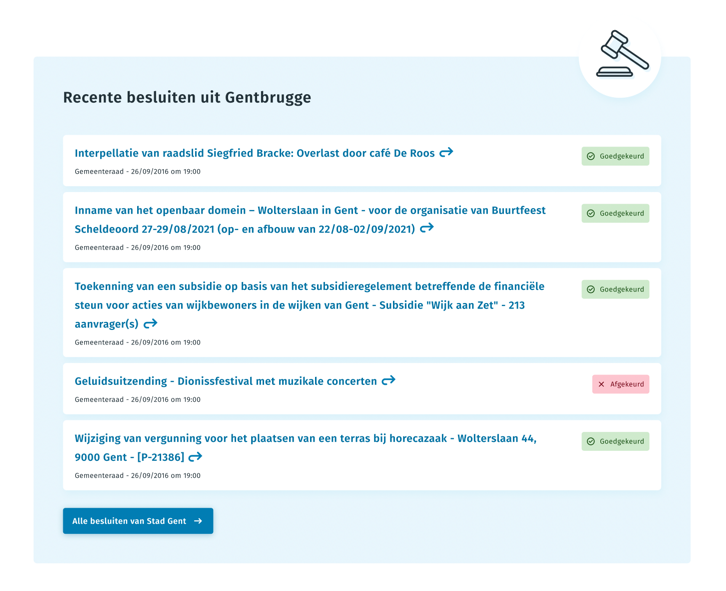
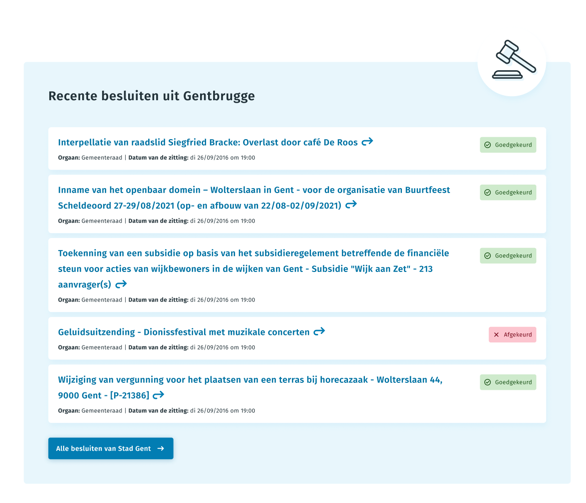
Use proper labels

diff --git a/webcomponents/reglementen-detail/main.js b/webcomponents/reglementen-detail/main.js
@@ -12,23 +12,23 @@ class ReglementenDetail extends HTMLElement {
       this.orgaan = this.getAttribute('orgaan');
       this.datum = this.formatDate(this.getAttribute('datum'));
       this.url = this.getAttribute('url');
-      this.status = this.getAttribute('status');
+      this.type = this.getAttribute('type');
       this.innerHTML += this.createDetail();
     }
   }
 
   createDetail() {
     return (`
-      <div class="besluiten-list__item besluiten-list__item--${this.status}">
-        <h3 class="besluiten-list__item-title">
-          <a href="${this.url}" class="besluiten-list__item-link">${this.titel}</a>
-        </h3>
-        <p class="besluiten-list__item-content">
-          <span>${this.orgaan}</span>
-          <span>Datum van bekendmaking: ${this.datum}</span>
-        </p>
-        <span class="besluiten-list__item-status">Status: ${this.status}</span>
-      </div>
+      <h3>
+        <a href="${this.url}">${this.titel}</a>
+        <a href="${this.url}">${this.titel}</a>
+      </h3>
+      <p>
+        <span class="orgaan">Orgaan: <span class="value">${this.orgaan}</span></span>
+        <span class="separator">|</span>
+        <span class="datum">Datum van bekendmaking: <span class="value">${this.datum}</span></span>
+        <span class="type">${this.type} type</span>
+      </p>
     `);
   }
 
@@ -43,13 +43,13 @@ class ReglementenDetail extends HTMLElement {
     this.orgaan = '@todo';
     this.datum = this.formatDate(reglement.date.value)
     this.url = this.getUrl(reglement);
-    this.status = '@todo';
+    this.type = '@todo';
     this.innerHTML += this.createDetail();
   }
 
   formatDate(date) {
-    const options = { weekday: 'long', year: 'numeric', month: 'long', day: 'numeric' }
     date = new Date(date);
+    const options = { weekday: 'short', year: 'numeric', month: '2-digit', day: '2-digit' }
     return date.toLocaleDateString('nl-be', options);
   }
 

diff --git a/webcomponents/besluiten-detail/main.js b/webcomponents/besluiten-detail/main.js
@@ -19,16 +19,15 @@ class BesluitenDetail extends HTMLElement {
 
   createDetail() {
     return (`
-      <div class="besluiten-list__item besluiten-list__item--${this.status}">
-        <h3 class="besluiten-list__item-title">
-          <a href="${this.url}" class="besluiten-list__item-link">${this.titel}</a>
-        </h3>
-        <p class="besluiten-list__item-content">
-          <span>${this.orgaan}</span>
-          <span>Datum van de zitting: ${this.datum}</span>
-        </p>
-        <span class="besluiten-list__item-status">Status: ${this.status}</span>
-      </div>
+      <h3>
+        <a href="${this.url}">${this.titel}</a>
+      </h3>
+      <p>
+        <span class="orgaan">Orgaan: <span class="value">${this.orgaan}</span></span>
+        <span class="separator">|</span>
+        <span class="datum">Datum van de zitting: <span class="value">${this.datum}</span></span>
+        <span class="status">${this.status} status</span>
+      </p>
     `);
   }
 
@@ -48,9 +47,19 @@ class BesluitenDetail extends HTMLElement {
   }
 
   formatDate(date) {
-    const options = { weekday: 'long', year: 'numeric', month: 'long', day: 'numeric' }
     date = new Date(date);
-    return date.toLocaleDateString('nl-be', options);
+    let d = date.toLocaleDateString('nl-be', {
+      weekday: 'short',
+      year: 'numeric',
+      month: '2-digit',
+      day: '2-digit'
+    });
+    let t = date.toLocaleTimeString('nl-be', {
+      hour: 'numeric',
+      minute: 'numeric',
+      second: 'numeric'
+    });
+    return `${d} om ${t}`;
   }
 
   async getBesluit(uri) {

diff --git a/webcomponents/reglementen-detail/index.html b/webcomponents/reglementen-detail/index.html
@@ -17,7 +17,7 @@
     orgaan="Gemeenteraad"
     datum="2022-10-06"
     url="https://ebesluitvorming.gent.be/zittingen/22.0117.2331.2297/agendapunten/22.0823.8239.1746"
-    status="Goedgekeurd"
+    type="Aanvullende reglementen op het wegverkeer"
   >
   </reglementen-detail>
 

diff --git a/webcomponents/reglementen-lijst/main.js b/webcomponents/reglementen-lijst/main.js
@@ -23,7 +23,7 @@ class ReglementenLijst extends HTMLElement {
           orgaan="${reglement.orgaan.value}"
           datum="${reglement.publicatie_datum.value}"
           url="${url}"
-          status="@todo"
+          type="@todo"
         >
       </li>
     `);
